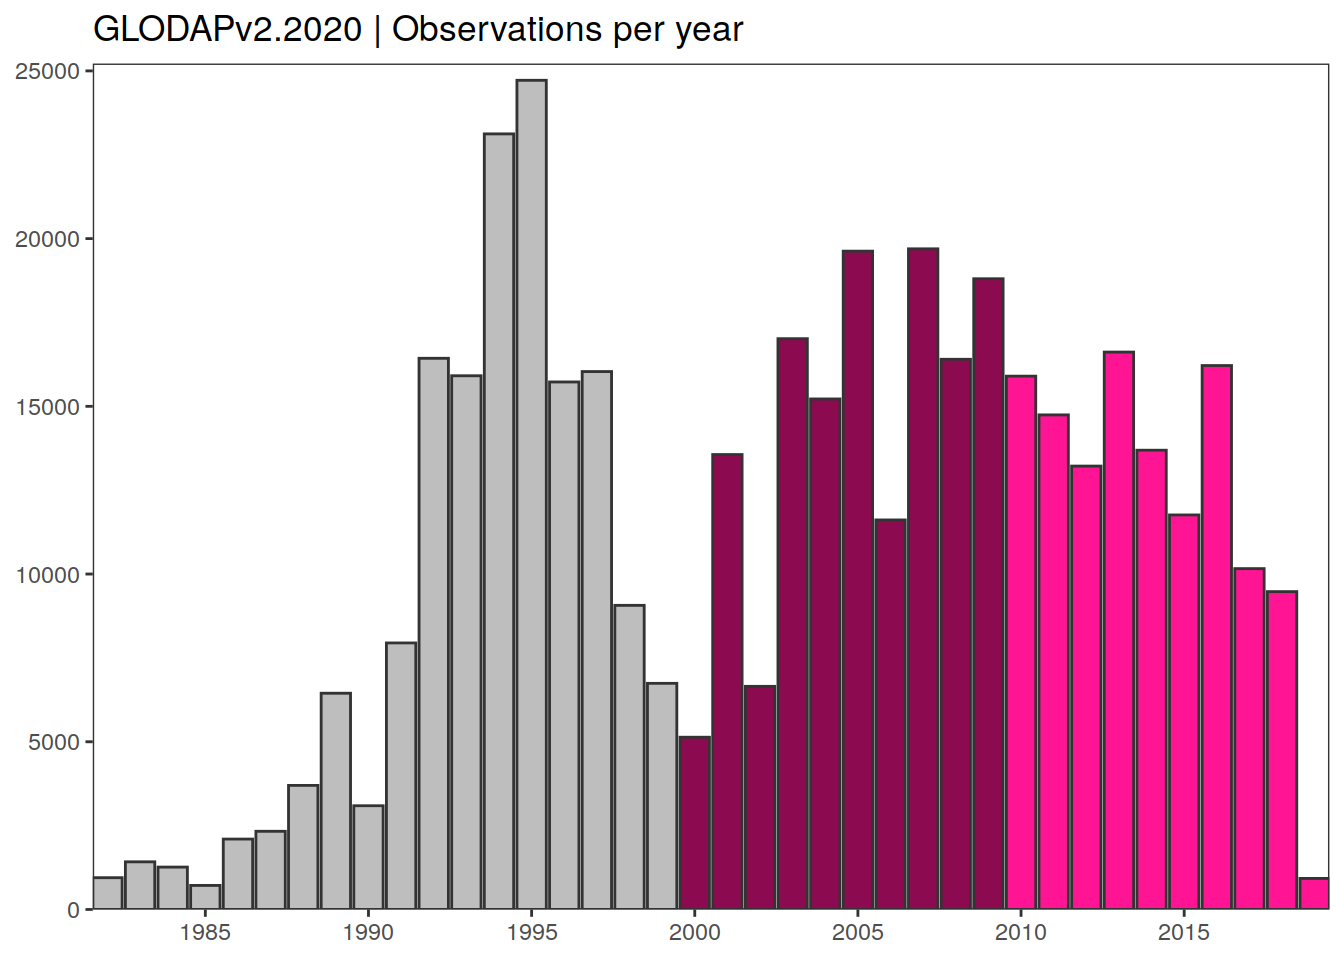
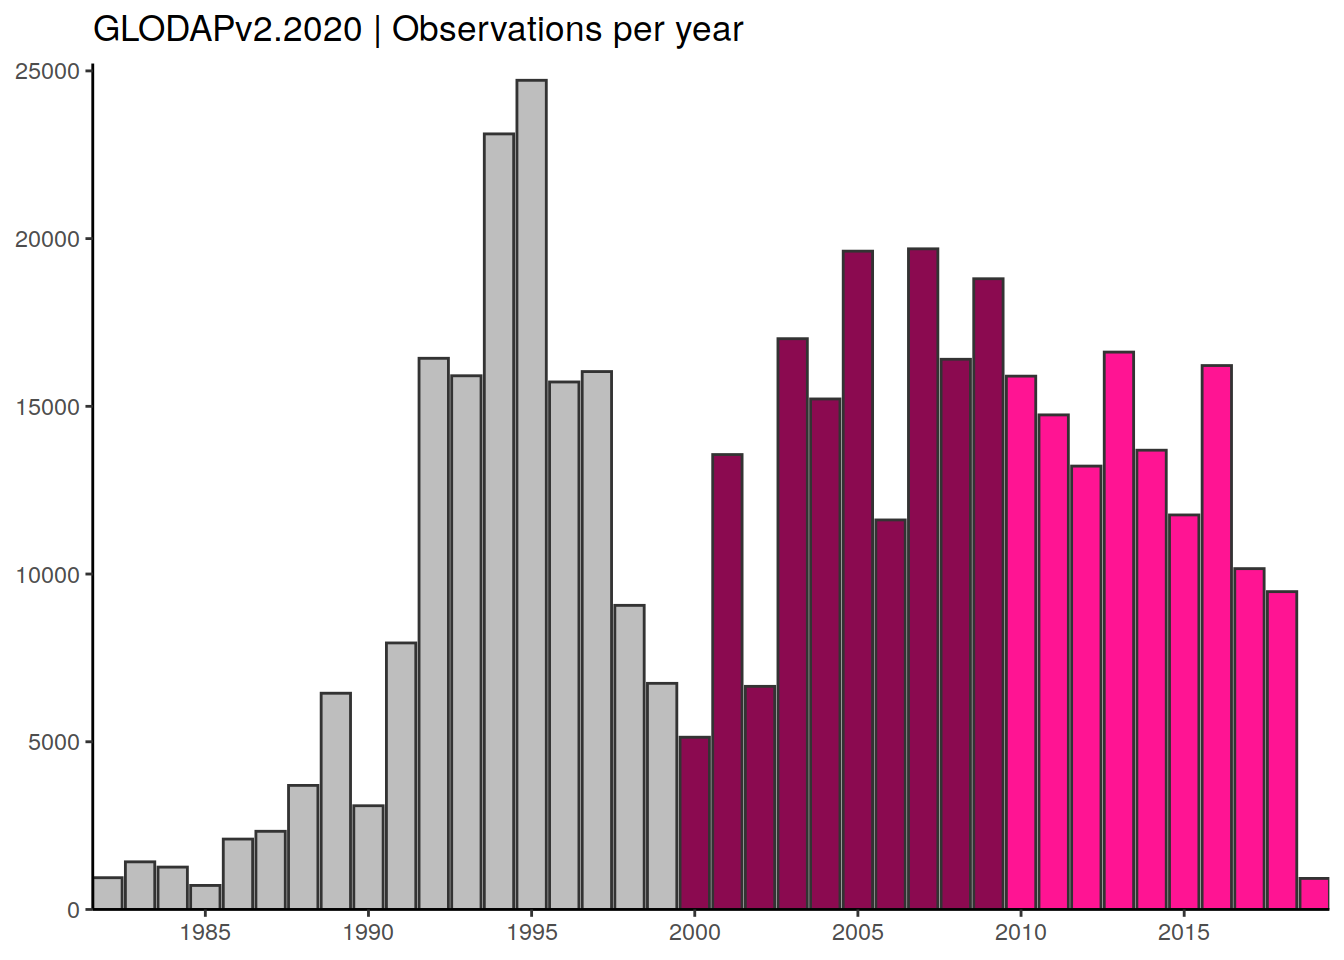
Build site.

Changed region(s): [[0.0625, 0.0625, 0.0938, 0.0938]]

diff --git a/docs/publication.html b/docs/publication.html
@@ -542,16 +542,16 @@ This reproducible <a href="http://rmarkdown.rstudio.com">R Markdown</a> analysis
 <div class="panel panel-default">
 <div class="panel-heading">
 <p class="panel-title">
-<a data-toggle="collapse" data-parent="#workflowr-checks" href="#strongRepositoryversionstrongahrefhttpsgithubcomjensdanielmuelleremlrobsanalysistreeb6e91792eb5938f12d64710058fc9eb39e3be29btargetblankb6e9179a"> <span class="glyphicon glyphicon-ok text-success" aria-hidden="true"></span> <strong>Repository version:</strong> <a href="https://github.com/jens-daniel-mueller/emlr_obs_analysis/tree/b6e91792eb5938f12d64710058fc9eb39e3be29b" target="_blank">b6e9179</a> </a>
+<a data-toggle="collapse" data-parent="#workflowr-checks" href="#strongRepositoryversionstrongahrefhttpsgithubcomjensdanielmuelleremlrobsanalysistree63e2c99cc71e6f3c7c0e218fa0f681e138a2ac35targetblank63e2c99a"> <span class="glyphicon glyphicon-ok text-success" aria-hidden="true"></span> <strong>Repository version:</strong> <a href="https://github.com/jens-daniel-mueller/emlr_obs_analysis/tree/63e2c99cc71e6f3c7c0e218fa0f681e138a2ac35" target="_blank">63e2c99</a> </a>
 </p>
 </div>
[2 lines of base64/hex data omitted]
 <div class="panel-body">
 <p>
 Great! You are using Git for version control. Tracking code development and connecting the code version to the results is critical for reproducibility.
 </p>
 <p>
-The results in this page were generated with repository version <a href="https://github.com/jens-daniel-mueller/emlr_obs_analysis/tree/b6e91792eb5938f12d64710058fc9eb39e3be29b" target="_blank">b6e9179</a>. See the <em>Past versions</em> tab to see a history of the changes made to the R Markdown and HTML files.
+The results in this page were generated with repository version <a href="https://github.com/jens-daniel-mueller/emlr_obs_analysis/tree/63e2c99cc71e6f3c7c0e218fa0f681e138a2ac35" target="_blank">63e2c99</a>. See the <em>Past versions</em> tab to see a history of the changes made to the R Markdown and HTML files.
 </p>
 <p>
 Note that you need to be careful to ensure that all relevant files for the analysis have been committed to Git prior to generating the results (you can use <code>wflow_publish</code> or <code>wflow_git_commit</code>). workflowr only checks the R Markdown file, but you know if there are other scripts or data files that it depends on. Below is the status of the Git repository when the results were generated:
@@ -604,6 +604,40 @@ Message
 </tr>
 </thead>
 <tbody>
+<tr>
+<td>
+Rmd
+</td>
+<td>
+<a href="https://github.com/jens-daniel-mueller/emlr_obs_analysis/blob/63e2c99cc71e6f3c7c0e218fa0f681e138a2ac35/analysis/publication.Rmd" target="_blank">63e2c99</a>
+</td>
+<td>
+jens-daniel-mueller
+</td>
+<td>
+2021-04-23
+</td>
+<td>
+implement UP feedback
+</td>
+</tr>
+<tr>
+<td>
+html
+</td>
+<td>
+<a href="https://rawcdn.githack.com/jens-daniel-mueller/emlr_obs_analysis/7488bdd891fb8d0b8eb40afc5a9f05ec57b41746/docs/publication.html" target="_blank">7488bdd</a>
+</td>
+<td>
+jens-daniel-mueller
+</td>
+<td>
+2021-04-23
+</td>
+<td>
+Build site.
+</td>
+</tr>
 <tr>
 <td>
 Rmd
@@ -1282,7 +1316,7 @@ rm(caspian_sea_re)
 #   geom_sf(data = black_sea, fill = &quot;white&quot;) +
 #   geom_sf(data = caspian_sea, fill = &quot;white&quot;) +
 #   geom_sf(data = hudson_bay, fill = &quot;white&quot;)</code></pre>
-<pre class="r"><code>set_breaks &lt;- c(-Inf, seq(0, 12, 2), Inf)
+<pre class="r"><code>set_breaks &lt;- c(-Inf, seq(0, 10, 2), Inf)
 color_land &lt;- &quot;grey80&quot;
 color_unmapped &lt;- &quot;grey90&quot;
 
@@ -1304,12 +1338,12 @@ p_inv_map &lt;- ggplot() +
     na.fill = TRUE
   ) +
   scale_fill_viridis_d(option = &quot;D&quot;, name = var_name,
-                       guide = guide_colorsteps()) +
+                       guide = guide_colorsteps(barheight = 10)) +
   new_scale_fill() +
   geom_tile(data = GLODAP_grid_both,
               aes(x = lon, y = lat, height = 0.7, width = 0.7, fill=era)) +
   scale_fill_manual(values = c(&quot;Deeppink4&quot;, &quot;Deeppink&quot;),
-                    name = &quot;Decade&quot;) +
+                    name = &quot;Decade&quot;, guide = FALSE) +
   geom_sf(data = marine_polys, fill = color_unmapped, col=&quot;transparent&quot;) +
   geom_sf(data = black_sea,  fill = color_unmapped, col=&quot;transparent&quot;) +
   geom_sf(data = caspian_sea,  fill = color_unmapped, col=&quot;transparent&quot;) +
@@ -1331,8 +1365,8 @@ ggsave(plot = p_inv_map,
        height = 4,
        width = 10)</code></pre>
 </div>
-<div id="data-time-series-histogram" class="section level2" number="2.2">
-<h2 number="2.2"><span class="header-section-number">2.2</span> Data time series histogram</h2>
+<div id="time-series-histogram" class="section level2" number="2.2">
+<h2 number="2.2"><span class="header-section-number">2.2</span> Time series histogram</h2>
 <pre class="r"><code>time_histo &lt;- GLODAP_preprocessed %&gt;% 
   filter(!is.na(tco2)) %&gt;% 
   count(year)
@@ -1356,9 +1390,8 @@ p_time_histo &lt;-
   scale_y_continuous(limits = c(0, max(time_histo$n)+500)) +
   coord_cartesian(expand = 0) +
   labs(title = &quot;GLODAPv2.2020 | Observations per year&quot;) +
-  theme_bw() +
-  theme(axis.title = element_blank(),
-        panel.grid = element_blank())
+  theme_classic() +
+  theme(axis.title = element_blank())
 
 
 p_time_histo</code></pre>
@@ -1385,6 +1418,17 @@ Date
 </tr>
 </thead>
 <tbody>
+<tr>
+<td>
+<a href="https://github.com/jens-daniel-mueller/emlr_obs_analysis/blob/7488bdd891fb8d0b8eb40afc5a9f05ec57b41746/docs/figure/publication.Rmd/time_series-1.png" target="_blank">7488bdd</a>
+</td>
+<td>
+jens-daniel-mueller
+</td>
+<td>
+2021-04-23
+</td>
+</tr>
 <tr>
 <td>
 <a href="https://github.com/jens-daniel-mueller/emlr_obs_analysis/blob/2cc294ac447d869351f455a5ea12da7d01a49944/docs/figure/publication.Rmd/time_series-1.png" target="_blank">2cc294a</a>
@@ -1546,6 +1590,17 @@ Date
 <tbody>
 <tr>
 <td>
+<a href="https://github.com/jens-daniel-mueller/emlr_obs_analysis/blob/7488bdd891fb8d0b8eb40afc5a9f05ec57b41746/docs/figure/publication.Rmd/post_2000_coverage_map-1.png" target="_blank">7488bdd</a>
+</td>
+<td>
+jens-daniel-mueller
+</td>
+<td>
+2021-04-23
+</td>
+</tr>
+<tr>
+<td>
 <a href="https://github.com/jens-daniel-mueller/emlr_obs_analysis/blob/6cebef7946af47210b576a3b2673ed0e8bd8893c/docs/figure/publication.Rmd/post_2000_coverage_map-1.png" target="_blank">6cebef7</a>
 </td>
 <td>
@@ -1611,6 +1666,17 @@ Date
 </tr>
 </thead>
 <tbody>
+<tr>
+<td>
+<a href="https://github.com/jens-daniel-mueller/emlr_obs_analysis/blob/7488bdd891fb8d0b8eb40afc5a9f05ec57b41746/docs/figure/publication.Rmd/data_duplication_coverage_map-1.png" target="_blank">7488bdd</a>
+</td>
+<td>
+jens-daniel-mueller
+</td>
+<td>
+2021-04-23
+</td>
+</tr>
 <tr>
 <td>
 <a href="https://github.com/jens-daniel-mueller/emlr_obs_analysis/blob/6cebef7946af47210b576a3b2673ed0e8bd8893c/docs/figure/publication.Rmd/data_duplication_coverage_map-1.png" target="_blank">6cebef7</a>
@@ -1729,7 +1795,7 @@ p_budget &lt;-
   expand = c(0, 0)) +
   labs(title = &quot;Ocean carbon sink 2006 - 2014&quot;,
        y = expression(Average~rate ~ (PgC ~ yr ^ {-1}))) +
-  theme_bw() +
+  theme_classic() +
   theme(axis.title.x = element_blank(),
         panel.grid = element_blank())
 
@@ -1758,6 +1824,17 @@ Date
 </tr>
 </thead>
 <tbody>
+<tr>
+<td>
+<a href="https://github.com/jens-daniel-mueller/emlr_obs_analysis/blob/7488bdd891fb8d0b8eb40afc5a9f05ec57b41746/docs/figure/publication.Rmd/uptake_rates-1.png" target="_blank">7488bdd</a>
+</td>
+<td>
+jens-daniel-mueller
+</td>
+<td>
+2021-04-23
+</td>
+</tr>
 <tr>
 <td>
 <a href="https://github.com/jens-daniel-mueller/emlr_obs_analysis/blob/3bb60c7f36b2edb982472597e967b97c1ed2e100/docs/figure/publication.Rmd/uptake_rates-1.png" target="_blank">3bb60c7</a>
